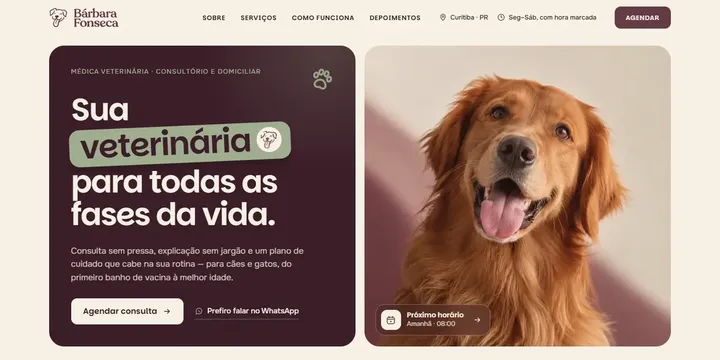
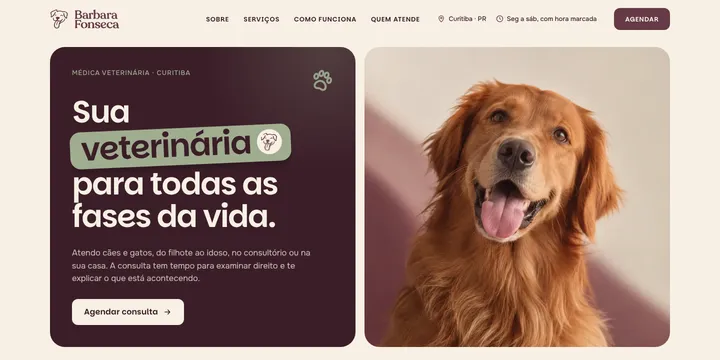
Cases e link da bio: site da Bárbara no domínio barbarafonsecavet.com.br
Claude-Session: https://claude.ai/code/session_012dBNquexPtdib1DABZiU7U

diff --git a/cases/index.html b/cases/index.html
@@ -46,14 +46,14 @@
         </a>
       </li>
       <li class="case-item">
-        <a class="case-card" href="https://barbarafonseca.vercel.app/" target="_blank" rel="noopener noreferrer" aria-label="Bárbara Fonseca: ver o site — abre em nova aba">
+        <a class="case-card" href="https://www.barbarafonsecavet.com.br/" target="_blank" rel="noopener noreferrer" aria-label="Bárbara Fonseca: ver o site — abre em nova aba">
           <div class="case-media"><img src="/assets/cases/barbara.webp" srcset="/assets/cases/barbara-720.webp 720w, /assets/cases/barbara.webp 1200w" sizes="(min-width: 1024px) 58vw, 100vw" width="1200" height="600" alt="Página inicial do site da Bárbara Fonseca, médica veterinária, com a foto de um golden retriever." loading="lazy" decoding="async" /></div>
           <div class="case-text">
             <span class="case-number">03</span>
             <h2>Bárbara Fonseca</h2>
             <p class="case-tags">Identidade visual · Website · Conteúdo</p>
             <p class="case-desc">Médica veterinária com consultório e atendimento em casa, em Curitiba. Fizemos a marca, o site e os carrosséis do Instagram.</p>
-            <span class="case-link">Ver o site <span aria-hidden="true"><svg class="icon-arrow" viewBox="0 0 24 24" fill="none" stroke="currentColor" stroke-width="1.5" stroke-linecap="round" stroke-linejoin="round" aria-hidden="true" focusable="false"><path d="M5 19 19 5M5 5h14v14"/></svg></span></span>
+            <span class="case-link">barbarafonsecavet.com.br <span aria-hidden="true"><svg class="icon-arrow" viewBox="0 0 24 24" fill="none" stroke="currentColor" stroke-width="1.5" stroke-linecap="round" stroke-linejoin="round" aria-hidden="true" focusable="false"><path d="M5 19 19 5M5 5h14v14"/></svg></span></span>
           </div>
         </a>
       </li>

diff --git a/link/index.html b/link/index.html
@@ -82,7 +82,7 @@
           <span class="bio-case-tag">Médica veterinária · Site, identidade e social media</span>
           <h3>Bárbara Fonseca</h3>
           <p>Marca pessoal, do nome ao site.</p>
-          <a href="https://barbarafonseca.vercel.app/" target="_blank" rel="noopener noreferrer">Ver o site <svg viewBox="0 0 24 24" aria-hidden="true" focusable="false"><path d="M7 17 17 7M8 7h9v9"/></svg></a>
+          <a href="https://www.barbarafonsecavet.com.br/" target="_blank" rel="noopener noreferrer">Ver o site <svg viewBox="0 0 24 24" aria-hidden="true" focusable="false"><path d="M7 17 17 7M8 7h9v9"/></svg></a>
         </article>
         <div class="bio-closing">
           <p>Quer a sua marca aqui?</p>
